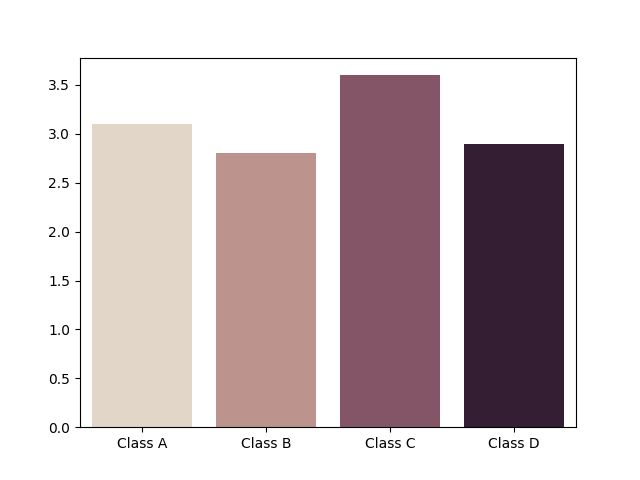
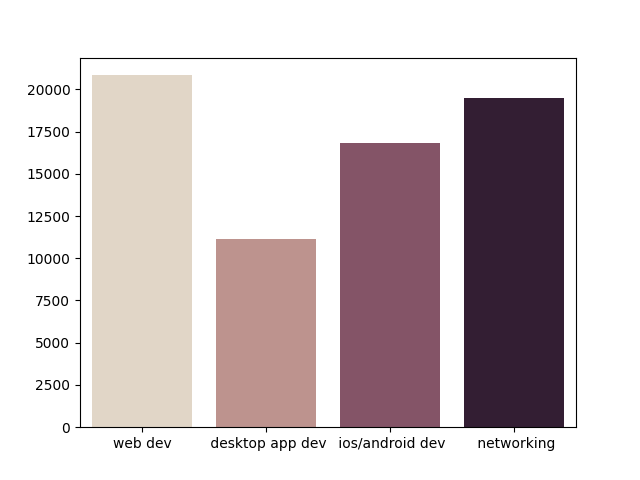
update

diff --git a/income.py b/income.py
@@ -1,12 +1,14 @@
-from flask import Flask
-from flask import send_file
-app = Flask(__name__)
-
+# type: ignore
 import seaborn as sns
 import matplotlib as mpl
 import matplotlib.pyplot as plt
 import pandas as pd
 import numpy as np
+
+
+from flask import Flask
+from flask import send_file
+app = Flask(__name__)
 
 # prevent matplotlib from opening a gui
 plt.ioff()
@@ -15,10 +17,13 @@ mpl.use('Agg')
 
 @app.route('/')
 def hello_world():
-    data_source = np.random.randint(1, 6, 40).reshape(10, 4)
-    # your code goes here....
-    df = pd.DataFrame(data_source)
-    df.columns = ['Class A', 'Class B', 'Class C', 'Class D']
+    with open('income.txt', 'r') as f:
+        lines = f.readlines()
+        header = lines[0].strip().split(',')
+        data_source = [list(map(int, line.strip().replace(' ', '').split(','))) for line in lines[1:]]
+ 
+    
+    df = pd.DataFrame(data_source, columns=header)
     sns_plot = sns.barplot(palette="ch:.25", data=df, ci=None)
     sns_plot.figure.savefig("output.png")
     plt.close()
@@ -28,3 +33,9 @@ def hello_world():
 if __name__ == '__main__':
     app.debug = True
     app.run(host='0.0.0.0', port=5000)
+    
+
+
+
+
+
